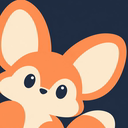
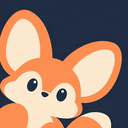
app: both faces are drawn, and bigger
The bot's was 18 beside 13pt text, which read as an icon rather than a face:
26 now, 24 in the rail. The reader gets one too — an initial, since macOS keeps
no account picture this process may read.

Changed region(s): [[0.0, 0.0, 1.0, 1.0], [0.1562, 0.8125, 0.2188, 1.0]]

diff --git a/client-go/internal/app/transcript.go b/client-go/internal/app/transcript.go
@@ -86,7 +86,7 @@ func (a *App) threadRow(c *ui.Context, t theme.Tokens, row threadRow) {
 // userRow is the right-aligned bubble: the user's own words, tinted so they are
 // not mistaken for the agent's.
 func (a *App) userRow(c *ui.Context, t theme.Tokens, row threadRow) {
-	ui.Row(c).FillWidth().Justify(ui.End).Padding(6, 0).Children(func() {
+	ui.Row(c).FillWidth().Justify(ui.End).Padding(6, 0).Gap(9).AlignItems(ui.Start).Children(func() {
 		bubble := ui.Column(c).MaxWidth(560).Padding(8, 12).Radius(12).
 			Background(t.Secondary).Gap(6)
 		bubble.Children(func() {
@@ -95,6 +95,7 @@ func (a *App) userRow(c *ui.Context, t theme.Tokens, row threadRow) {
 				ui.Text(c, row.text).FontSize(12.5).TextColor(t.SecondFg)
 			}
 		})
+		a.userAvatarView(c, t, avatarSize)
 	})
 }
 
@@ -102,7 +103,7 @@ func (a *App) userRow(c *ui.Context, t theme.Tokens, row threadRow) {
 // not to a card.
 func (a *App) assistantRow(c *ui.Context, t theme.Tokens, row threadRow) {
 	ui.Row(c).FillWidth().Padding(6, 0).Gap(9).AlignItems(ui.Start).Children(func() {
-		a.avatarView(c, 18)
+		a.avatarView(c, avatarSize)
 		ui.Column(c).Grow(1).MinWidth(0).Gap(6).Children(func() {
 			a.images(c, row.images, 240, 160)
 			if row.text != "" {
@@ -184,7 +185,7 @@ func (a *App) errorRow(c *ui.Context, t theme.Tokens, row threadRow) {
 // it is written. Without it a turn that thinks for a minute looks stalled.
 func (a *App) liveRowView(c *ui.Context, t theme.Tokens, row threadRow) {
 	ui.Row(c).FillWidth().Padding(6, 0).Gap(9).AlignItems(ui.Start).Children(func() {
-		a.avatarView(c, 18)
+		a.avatarView(c, avatarSize)
 		ui.Column(c).Grow(1).MinWidth(0).Gap(4).Children(func() {
 			if row.liveStep != "" {
 				ui.Text(c, i18n.TF("runningStep", map[string]any{"name": row.liveStep})).

diff --git a/client-go/internal/app/avatar.go b/client-go/internal/app/avatar.go
@@ -2,8 +2,12 @@ package app
 
 import (
 	_ "embed"
+	"os"
+	"strings"
 
 	"github.com/egoist/mygo/ui"
+
+	"pitta/internal/theme"
 )
 
 // avatarPNG is the fennec the window answers as.
@@ -14,6 +18,10 @@ var avatarPNG []byte
 // avatar is decoded once and kept: every frame draws it, and decoding a png per
 // frame would show up in the scroll.
 var avatar *ui.Bitmap
+
+// avatarSize is the box both faces are drawn in: big enough to read as a face,
+// small enough not to compete with the first line of the answer.
+const avatarSize = 26
 
 // avatarView draws the bot's face at the given size, square with soft corners so
 // it reads as an icon rather than a photo.
@@ -26,4 +34,23 @@ func (a *App) avatarView(c *ui.Context, size float32) {
 		avatar = bitmap
 	}
 	ui.Image(c, avatar).Size(size, size).Radius(size / 4).Clip()
+}
+
+// userAvatarView draws the reader's initial. macOS keeps no account picture
+// this process may read, and an initial is honest where a logo would be
+// decoration.
+func (a *App) userAvatarView(c *ui.Context, t theme.Tokens, size float32) {
+	ui.Box(c).Size(size, size).Radius(size / 4).Background(t.Secondary).
+		Justify(ui.Center).AlignItems(ui.Center).Children(func() {
+		ui.Text(c, userInitial()).FontSize(size * 0.5).FontWeight(600).TextColor(t.SecondFg)
+	})
+}
+
+// userInitial is the first letter of the account this window runs as.
+func userInitial() string {
+	name := os.Getenv("USER")
+	if name == "" {
+		return "?"
+	}
+	return strings.ToUpper(name[:1])
 }

diff --git a/client-go/internal/app/rail.go b/client-go/internal/app/rail.go
@@ -30,7 +30,7 @@ func (a *App) railView(c *ui.Context, t theme.Tokens) {
 
 func (a *App) railBrand(c *ui.Context, t theme.Tokens) {
 	ui.Row(c).FillWidth().Height(26).Padding(0, 12).AlignItems(ui.Center).Gap(6).Children(func() {
-		a.avatarView(c, 18)
+		a.avatarView(c, 24)
 		ui.Text(c, "PiLot").FontSize(12).FontWeight(600).TextColor(t.Foreground)
 		ui.Spacer(c)
 		compose := ui.ButtonBase(c).Size(20, 20).Radius(4).Justify(ui.Center).
